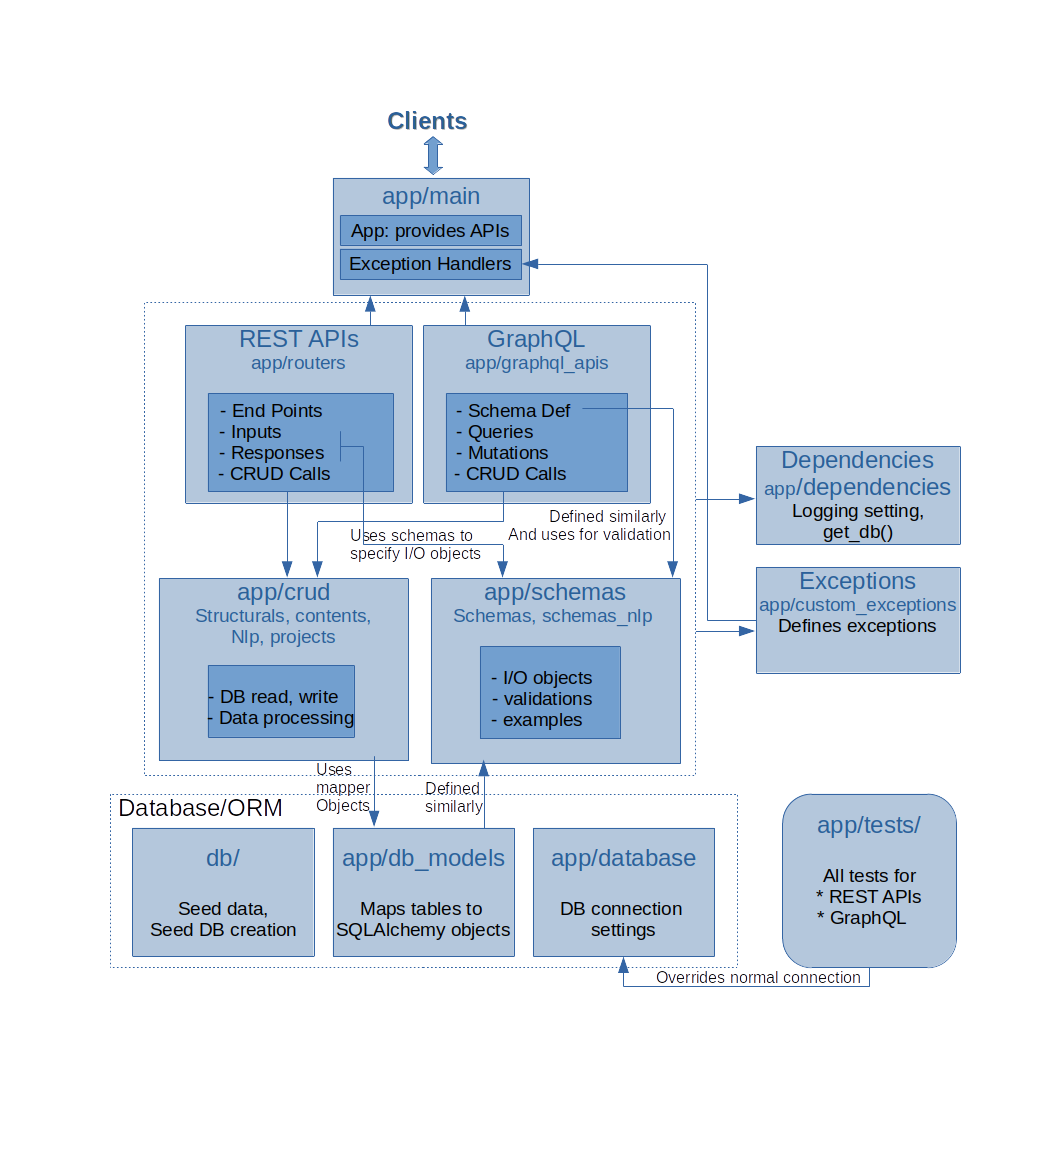
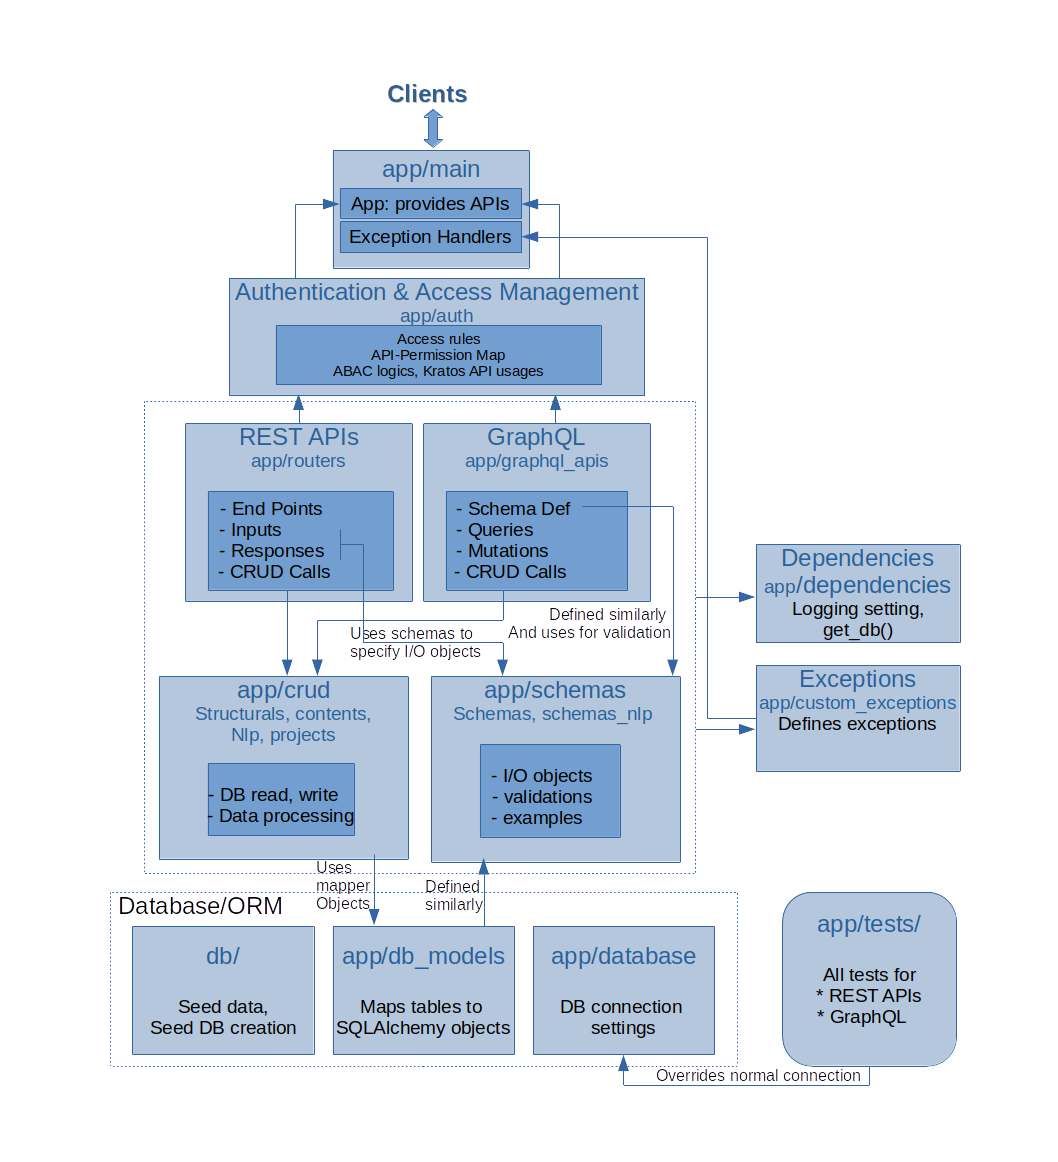
update release notes, architecture, timeline etc

diff --git a/docs/release v2.0.0-alpha2.md b/docs/release v2.0.0-alpha2.md
@@ -1,32 +1,16 @@
-# Plan for release v2.0.0-alpha2
+# Release v2.0.0-alpha2
 
-## Date: dec 2021
-
+## Date: Jan 7, 2022
 
 ## Changelog
-* Implemented Autographa project Management Module
+* Implemented Autographa Project Management and Module
 * Added NLP functions for translation and other related tasks like gloss, stopwords etc
 * Provides graphQL interface for all features available in REST
-* Implemented authentication using Kratos and access control rules based on user roles as well as resource type.
-* Dockerization
+* Implemented authentication using Kratos and access control rules based on user roles as well as resource type. App connects to a central Kratos DB, shareable across other Apps.
+* Started using dockerization
+* Automated deployment via github actions
 
-## To be completed before release
-
-#### Authentication and access control
-1. Have auth and access check defined and implemented for all available REST endpoints
-2. Replicate the auth and access check behaviour in REST to graphQL queries and mutations
-3. Clean up the code base. Move auth related things to a folder, use ENUMs as much as possible etc
-4. Host and use the Kratos instance running on server. Use the same from git actions as well
-
-#### Dockerization
-1. Fix issues on the pending PR
-2. Add usfm-grammar as a container and make it callable from the utils function which now uses the one installed on server
-3. Make all tests possible to be run on git actions. The ones excluded now are those using usfm-grammar
-4. Do we need to do auto-deployment upon merge via git actions?
-
-#### SW APIs
-1. Implement the SW APIs
-2. Manually clean up and load GL stopwords to DB
+## Pending
 
 #### Load Data on server
 Get all contents on V1 and load them to hosted instance of V2
@@ -37,9 +21,6 @@ Get all contents on V1 and load them to hosted instance of V2
 4. Token translations
 
 For now we can connect to the old DB dump and load data to V2 via python scripts calling APIs. 
-
-
-## Left for later
 
 #### Improving the translation APIs
 
@@ -52,7 +33,8 @@ In the first round of evaluation it was found tokenization API takes too much ti
 * Add APIs to export/download DB contents like bibles and commentaries from server
 * Create a scripture burrito file for the contents being downloaded
 
-#### Project export
+###### Project export
 * Fix and improve the conversion of project into alignment json format
 * Include scripture burrito for this content too
 
+#### Support for generic Markdown content

diff --git a/docs/architecture.md b/docs/architecture.md
@@ -31,6 +31,16 @@ This section talks briefly about various important directories and files. It wou
 * Make log entries
 * Includes all API endpoints, defined in routers, to `app`.
 
+### app/auth
+User management and acess management
+
+* Access rules. Follows an approach of attribute-based-access-control(ABAC). The rules are defined in the following pattern. 
+```
+Attibute/acess-tag -> permission/operation -> requiredRights
+```
+They are easily configuarable as per the changes in our bussiness rules and policies.
+* Mapping from API endpoints to their corresponding permissions/operations. This is also easily configurable.
+* Code implementing our ABAC logics for access management and Kratos API access for user management
 
 ### app/crud/
 
@@ -39,7 +49,7 @@ This section talks briefly about various important directories and files. It wou
 * Three sub modules
 > * structuals: which contain operations related to the predefined tables that make up the DB structure like Content_types, Languages, Licenses, versions, sources and bible_book_loopup
 > * contents: which contain operations related to the content carrying dynamically created tables like bible, commentary, infographic, biblevideo, dictionary etc
-> * nlp: which contain tables and operations related to AgMT stuff like tokenization, draft generartion, alignment, model building etc
+> * nlp: which contain tables and operations related to AgMT stuff like tokenization, draft generartion, alignment, model building, stopwords etc. The module is sub-divided into multiple files to limit per file size.
 
 ### app/schemas
 
@@ -59,7 +69,8 @@ Contains all input output objects schema definitions, used by pydantic for input
 ### app/graphql_apis
 
 * Defines types, queries and mutations corresponding to all the REST APIs operations
-* Uses same crud functions as REST
+* Uses same router functions as REST
+* Tweaks the request to point to the corresponding REST API, so that the same auth and acess rules can be applied here as well
 * Converts the own types to the app/schemas for validation and uniformity in working with the ORM
 
 ![component diagram](./images/Vachan-apiv2components.png)

diff --git a/docs/V2 Timeline.md b/docs/V2 Timeline.md
@@ -2,12 +2,14 @@
 
 # Time Line for Development
 
-## 6 Months: For Implementation 
+## Plan for First Phase
+
+#### 6 Months: For Implementation 
 Starting: Oct, 2020
 
 Ending: March, 2021
 
-### Task subdivision
+##### Task subdivision
 1. Initial Discussions and planning regarding platforms, tools, practices etc.
 2. API endpoint definitions for VO related APIs.
 3. Implementation of VO related APIs.
@@ -19,7 +21,7 @@ Ending: March, 2021
 9. Deploy and test on staging server.
 10. Final documentations and Release.
 
-### Month-wise Plan
+##### Month-wise Plan
 1. Oct: Tasks 1 & 2
 2. Nov: Task 3
 3. Dec: Tasks 3 & 4
@@ -27,7 +29,7 @@ Ending: March, 2021
 5. Feb: Task 6
 6. Mar: Tasks 7, 8, 9 & 10
 	
-## 6 Months: For Transition from V1 to V2
+#### 6 Months: For Transition from V1 to V2
 
 Starting: April, 2021
 
@@ -36,3 +38,26 @@ Ending: Sept, 2021
 * During this period, the vachan-api V1 would also be maintained.
 * The client Apps, get to test the APIs and move to the newer APIs.
 * Meet, if there are any changes required, from client Apps.
+
+## First Internal Release of V2
+
+Date: March 2021
+
+The first phase of vachan-api version 2. [Link](https://github.com/Bridgeconn/vachan-api/releases/tag/v2.0.0-alpha.1)
+
+## AgMT and Translation Module
+Aug 2021
+
+The module has been implemented and made available for use by UI development team.
+
+## Second Internal Release of V2
+
+Date: Jan 2022
+
+A whole system with 
+* All APIs and functionalities supported by V1
+* Authentication
+* Tests
+* Documentations
+* Infrastructure for deployment etc
+has been implemented and deployed on server, usable by client apps AgMT and VO for their development. [Link](https://github.com/Bridgeconn/vachan-api/releases)
